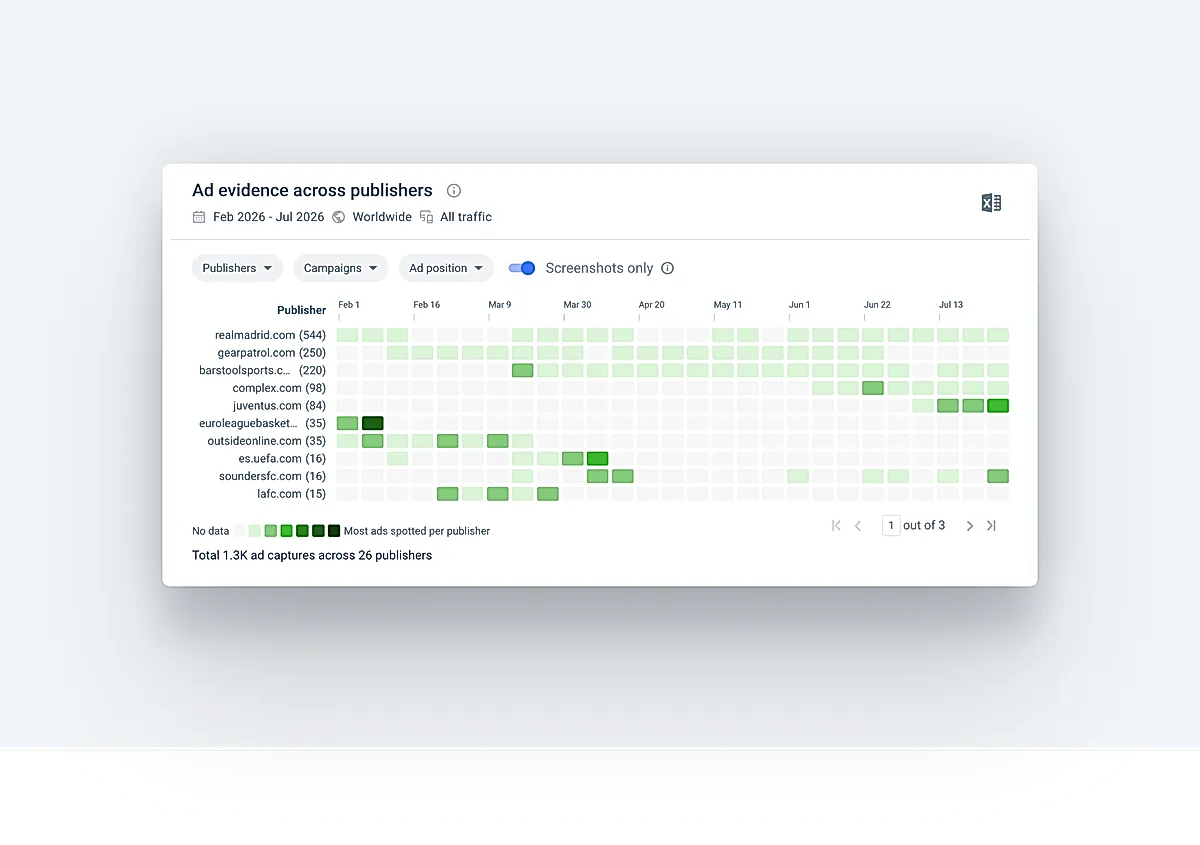
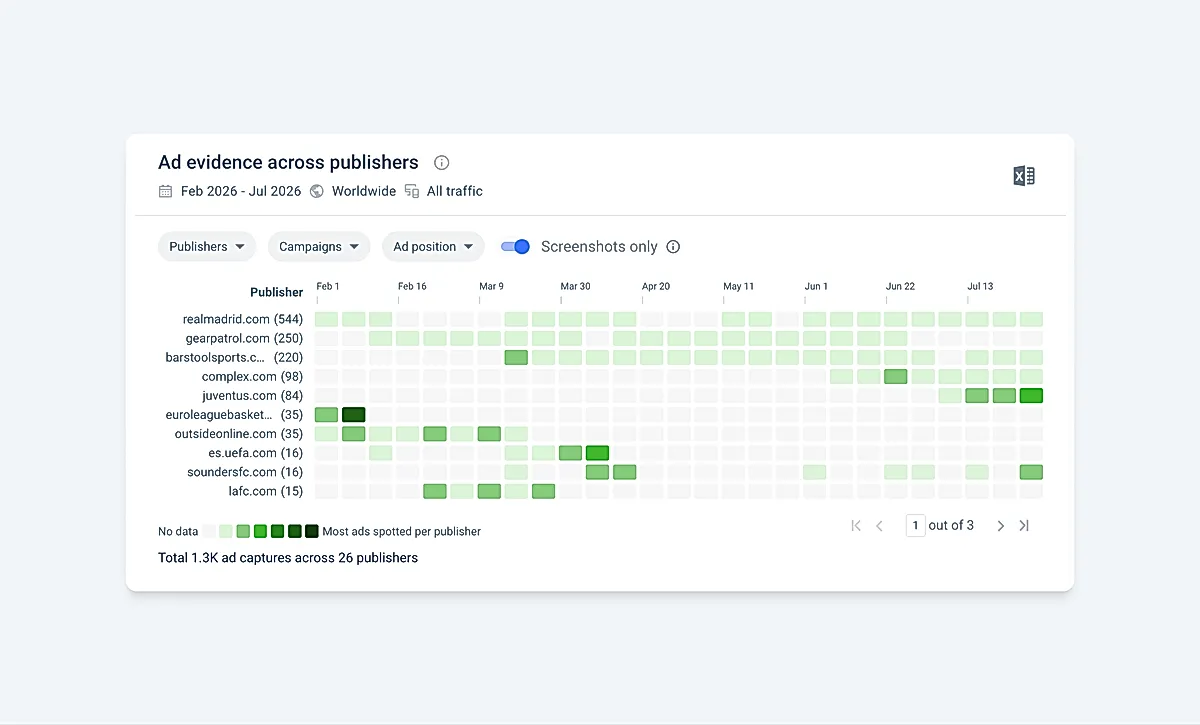
Sync content from Notion

Changed region(s): [[0.0925, 0.1821, 0.8942, 0.8193], [0.3392, 0.3034, 0.4008, 0.3641], [0.6475, 0.5462, 0.6783, 0.5766]]

diff --git a/content/portfolio/ad-verification.md b/content/portfolio/ad-verification.md
@@ -1,0 +1,143 @@
+---
+title: "Ad verification"
+year: ""
+date: "2026-05-28"
+client: ""
+role: ""
+description: "Proof that your display ad actually ran"
+categories:
+
+featuredImage: "/images/portfolio/3c18d0a5-5f27-8080-8556-e2e7d7663791-cover.webp"
+comingSoon: false
+---
+
+## Intro
+
+Advertisers spend a lot of money to place display ads. In return, they want one thing: confidence the ads actually ran on the publishers they paid for. Until this project, Similarweb couldn't give them that directly.
+
+Ad verification widget answers that question on the Display Overview page in Ad Intelligence. You pick an advertiser, you see a heatmap of publishers by day, and you click into any cell to see the screenshots we captured. It's now part of the Display Overview surface every Ad Intelligence user lands on.
+
+
+
+<figure class="full-bleed">
+  <img src="/images/portfolio/Ad_verification_%282%29.jpg.webp" alt="Advertiser Activity Display Overview with the Ad evidence widget and a drawer open">
+  <figcaption>Advertiser Activity Display Overview with the Ad evidence widget and a drawer open</figcaption>
+</figure>
+
+## The problem
+
+Advertisers were paying for placements with no first-party way to prove the ad landed. Customer success kept routing the same question back to the product: "Can you show me proof my campaign ran on these publishers?" Before **Ad verification**, the only path was opening one ad record at a time and reading metadata. You couldn't see a publisher across time, compare publishers side by side, or filter for the moments we actually captured a screenshot.
+
+This extended Ad Intelligence rather than starting something new. We already had the underlying data, we just had to built a surface that answered the verification question directly.
+
+## My role
+
+I led design end-to-end: research, information architecture, visual, interaction. Matej T. was PM and the main acceptance voice. Rafael, Matej M. and Alex implemented the widget. We worked in tight loops on every component.
+
+## Prerequisites from research
+
+Screenshots are the proof. Everything else is metadata.
+
+Counts, positions, durations, campaign names are useful, but they aren't what an advertiser opens the page to see. They open it to look at the actual creative we captured running on the actual publisher. That belief decided the most important defaults in the widget: the screenshots-only toggle is on by default, and the drawer opens to a screenshot grid instead of a metadata table. The heatmap also colors each cell by the ratio of screenshots to events, not the raw count.
+
+
+
+## The design and implementation
+
+The hardest design decision was how to let users drill down without losing the overview.
+
+Verification is a "find the anomaly" task. A user wants to scan many publishers across many days, spot the row that looks different, and investigate. If clicking a cell takes them to a new page, they lose the comparison. If the detail view is too small, they can't see the screenshots properly. I landed on a side drawer that opens over the widget but keeps the heatmap visible behind it. A layered image preview opens on top of the drawer, and closing the preview keeps the drawer open. The drawer does the work and the heatmap stays visible as the way back to it.
+
+<figure class="full-bleed">
+  <img src="/images/portfolio/Ad_verification_%283%29.jpg.webp" alt="The drawer open with expanded accordion with the heatmap behind it">
+  <figcaption>The drawer open with expanded accordion with the heatmap behind it</figcaption>
+</figure>
+
+The drawer's summary control was the other consequential decision. The first version had a static summary card with three numbers: total events, screenshots, no-screenshots. Acceptance feedback was that users couldn't act on a summary; they wanted to filter. The card became a segmented control with the same three categories, and the counts moved inline as part of each segment. The data didn't change, but its job did — the summary is now the filter, not a readout of one.
+
+
+
+## The messy middle
+
+This widget shipped after three significant shifts. Each one was the right call. None of them were planned.
+
+The first was the backend contract. Mid-project the backend team simplified the filter-options response and the publisher / campaign options shape changed. We rewrote the filter hooks to match. Designing against the original contract had been hypothetical, designing against the new one was real.
+
+The second was the summary card to segmented control swap. The visual change was small. The IA change was bigger: filtering became the main action in the drawer, not a secondary option.
+
+The third was a long tail of acceptance feedback from Matej on the heatmap itself. Cell coloring strategy. Publisher count abbreviations. The "no data before May 2025" notice. Legend placement relative to the total summary. None of these are visible in a single before/after, but together they're the difference between a widget that looks finished and one that is.
+
+
+
+## The craft 
+
+The heatmap color logic is the thing most users won't notice and that took the most work.
+
+Three problems compound when you visualize sparse, long-tail data like screenshot capture counts:
+
+1. A few publishers have 100x more events than most others. Linear scaling hides everything except the loudest rows.
+
+1. Every publisher's "busy" looks different. A publisher with 5 screenshots and one with 5,000 both have a peak day worth seeing.
+
+1. When the screenshots-only toggle is on, the meaningful signal is the ratio of screenshots to total events, not the screenshot count.
+
+The implementation handles all three. Color scaling is logarithmic, so long-tail rows still show their internal variation. The scale is per-row, so each publisher's heatmap is normalized to its own range and you can read patterns regardless of total volume. And when screenshots-only is on, the color reflects the screenshots-to-events ratio for that cell, not the raw count.
+
+
+
+```typescript
+const buckets = colors.length - 1;
+const lnMin = Math.log(posMin);
+const lnMax = Math.log(max);
+const step = (lnMax - lnMin) / buckets;
+const thresholds = Array.from(
+  { length: buckets },
+  (_, i) => Math.exp(lnMin + step * (i + 1))
+);
+```
+
+
+
+## What I’d do differently
+
+Pull in backend and data earlier. Designing against an idealized response shape instead of a real one cost me design cycles when the backend contract changed.
+
+
+
+## How I worked
+
+I first started in Figma to note down my research and to explore the dataviz approaches. Then I mocked the prototype, especially so that I could see how various periods are covered using v0 from Vercel. 
+
+Handing it over to Rafael, we discussed performance of the widget, tooltips and all the edge cases. 
+
+
+
+## Impact
+
+The widget shipped with full analytics tracking: filter changes, the screenshots-only toggle, cell clicks into the drawer, and domain selection in compare mode are all tracked. 
+
+The whole point of the screenshots-only default was to bet that most users want proof first and data second. The toggle behavior chart is the honest test of whether that bet was right.
+
+I cannot disclose these numbers so I’d keep them here just as placeholders. 
+
+
+
+## Credits
+
+Matěj Tremko (Product Manager)
+
+Rafael Kamaltinov (Fullstack Engineer)
+
+Matěj Müller (Backend Engineer)
+
+Alex Shcherbakov (Fullstack Engineer)
+
+Yulia Fomicheva (QA Engineer)
+
+
+
+
+
+
+
+
